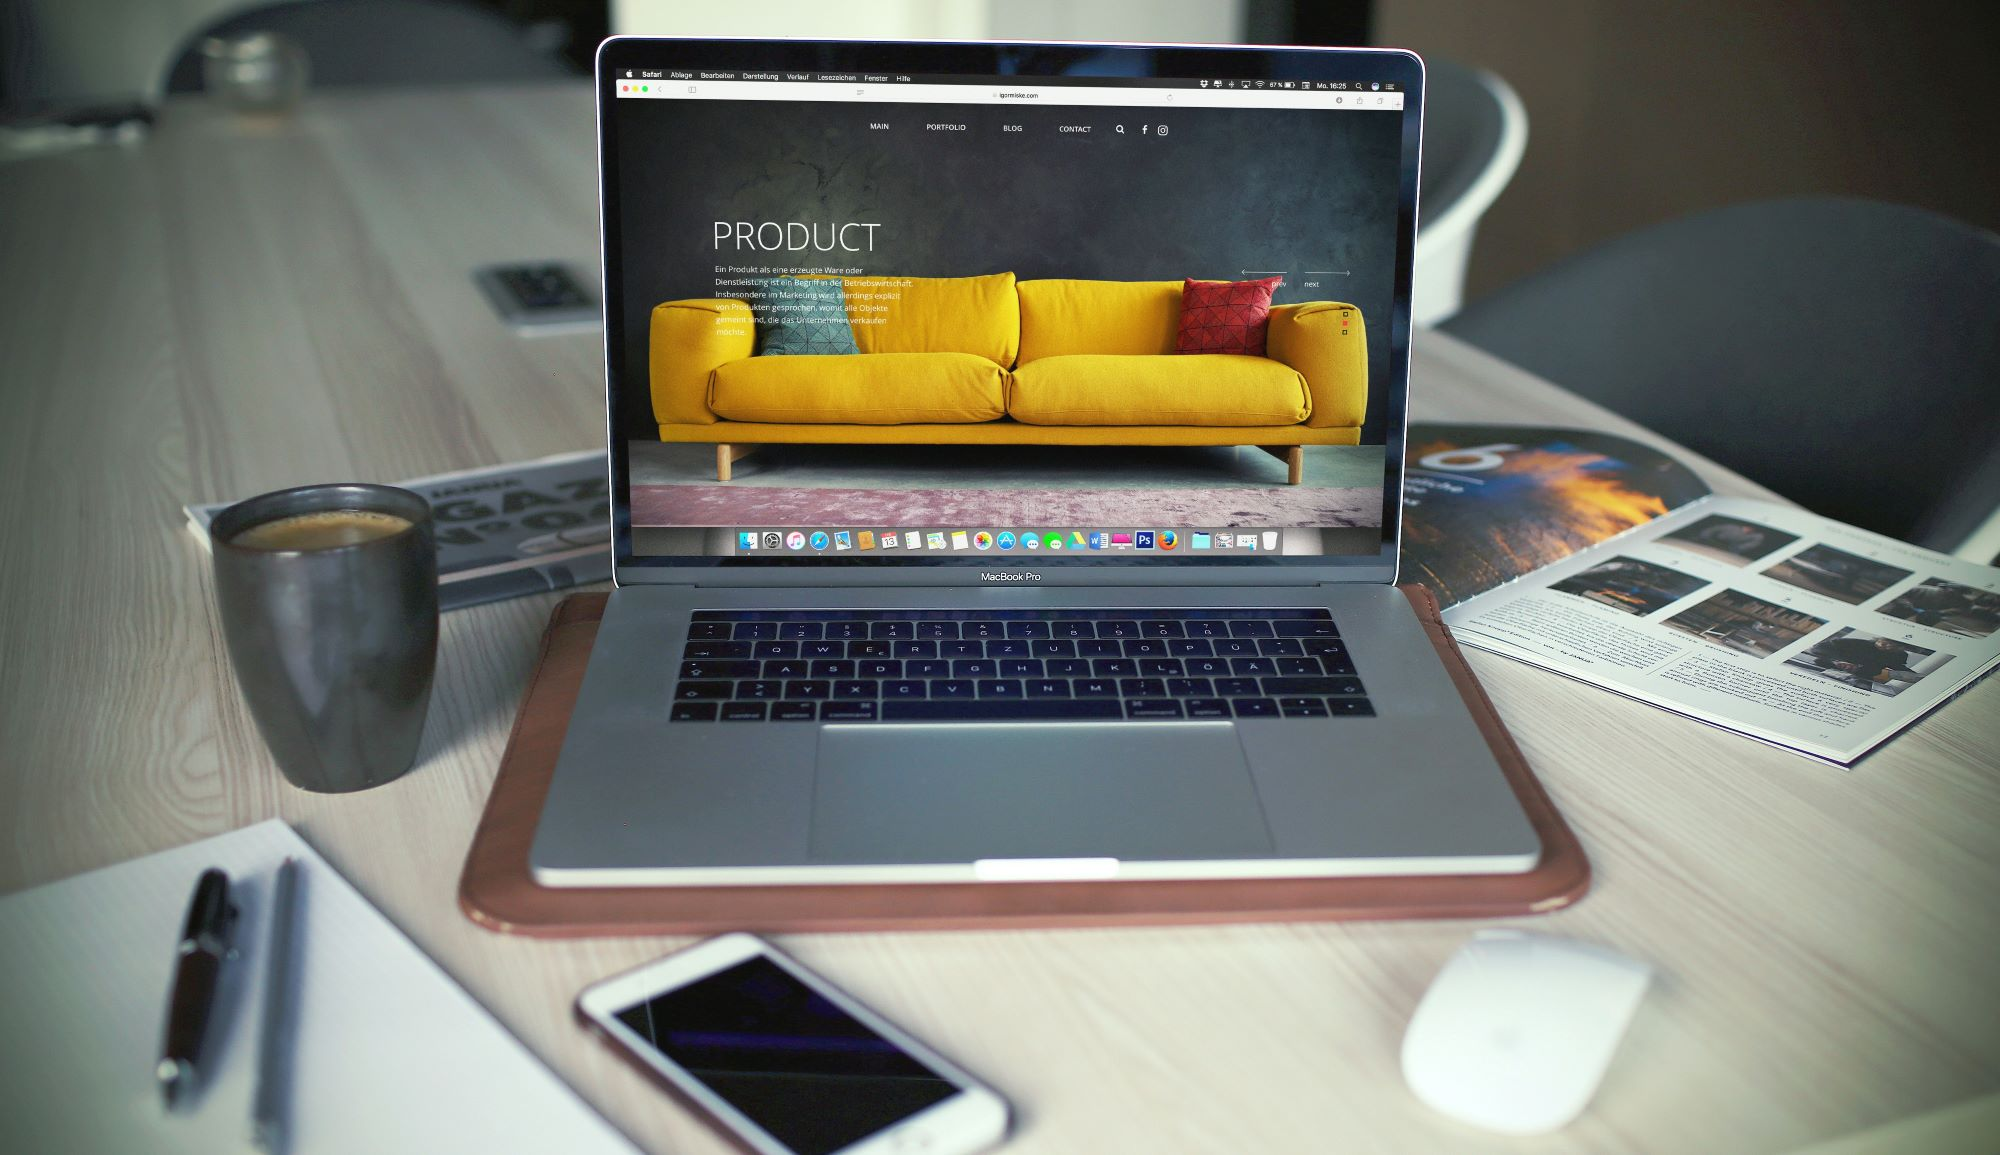
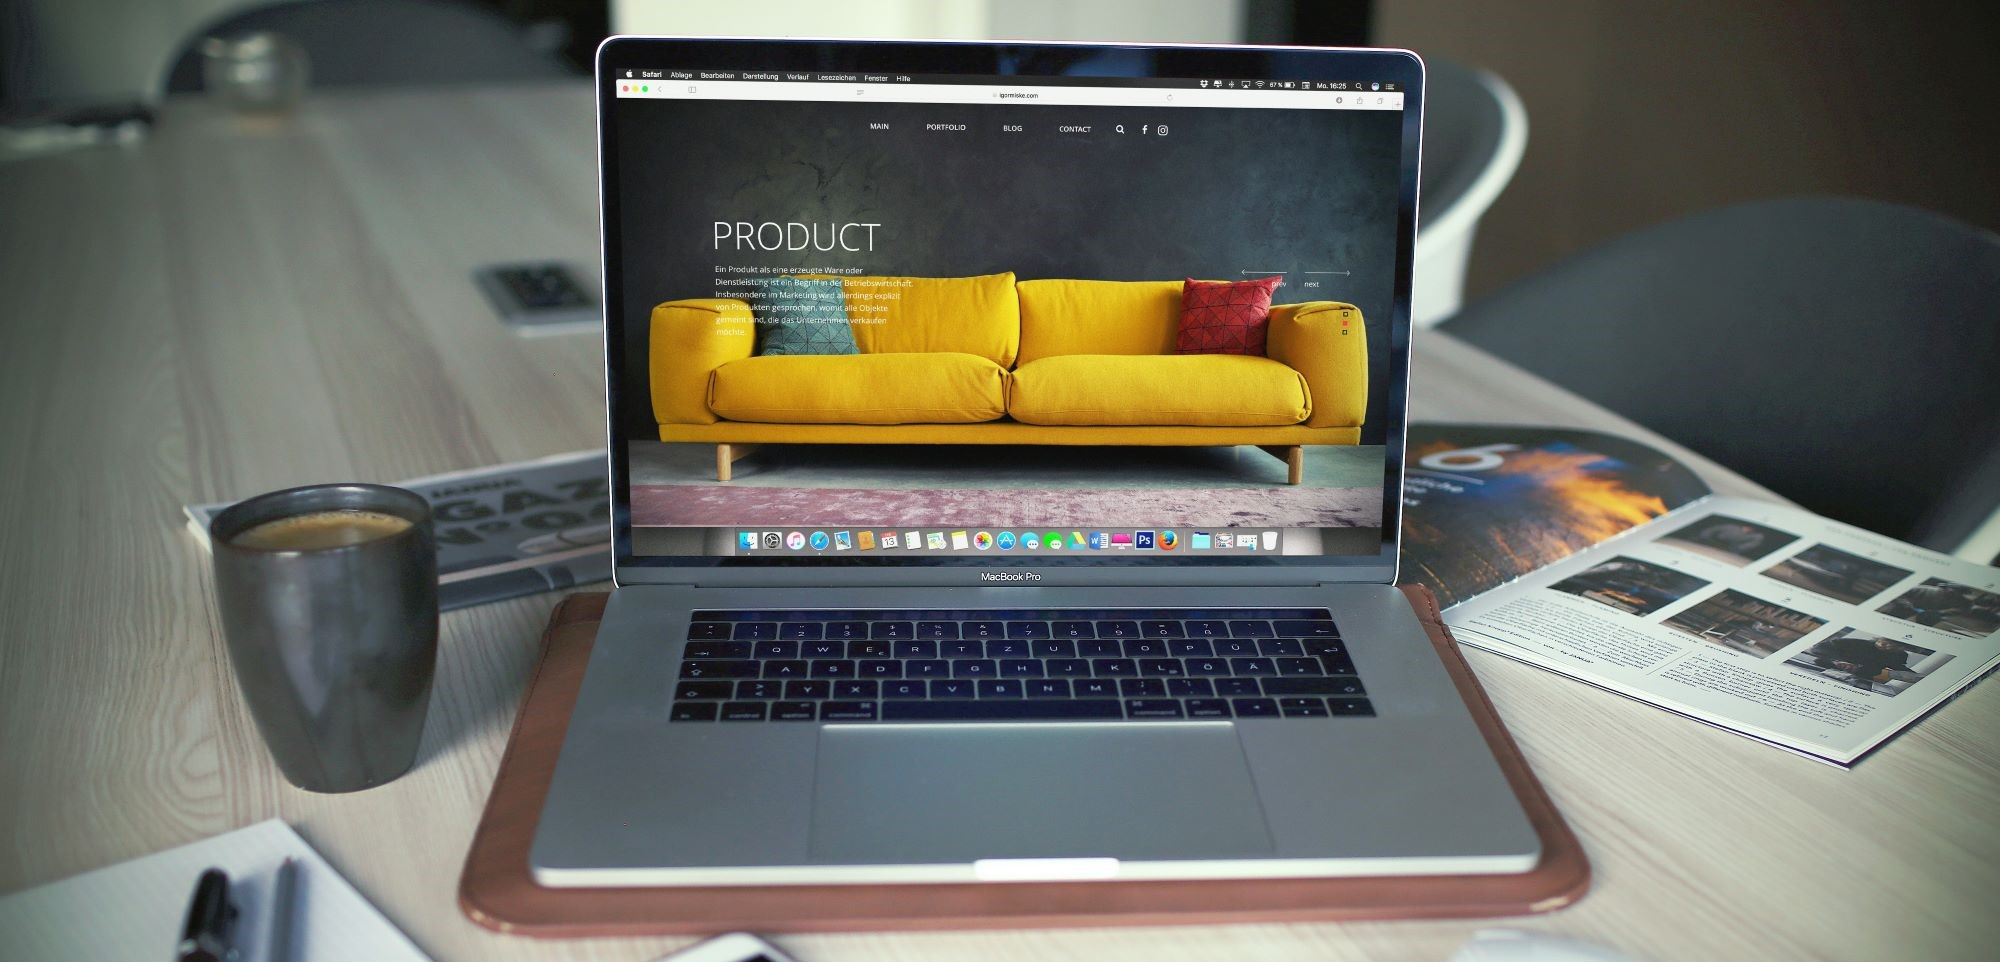
simplify css

diff --git a/css/styles.css b/css/styles.css
@@ -11,12 +11,10 @@ body {
 	font-family: Helvetica,Arial,sans-serif;
 }
 
-.headertext {
-	padding: 3px;
-	background-color: var(--maincolor);
-}
 .logoimage {
 	height: 20px;
+	margin-top: 10px;
+	margin-bottom: 10px;
 }
 .navbar {
 	background-color: #FFFFFF;
@@ -35,55 +33,36 @@ border-radius: 15px 0px 15px 0px;
 /* Links */
 a {
 	color: var(--maincolor);
-	word-wrap: break-word;
-	transition: color 0.1s ease-in, background 0.1s ease-in;
 }
 a:hover, a:focus {
-	color: #c0392b;
-	text-decoration: none;
-	outline: 0;
+	color: var(--secondcolor);
 }
-a:before, a:after {
-	transition: color 0.1s ease-in, background 0.1s ease-in;
-} 
 /* ==========================================================================
    Wrap Sections
    ========================================================================== */
 
 #headerwrap {
 	background: url(../images/info3.jpg) no-repeat center top;
-	margin-top: -50px;
-	padding-top: 120px;
+	padding-top: 60px;
 	text-align: center;
-	background-attachment: relative;
 	background-position: center center;
-	min-height: 850px;
+	min-height: 700px;
 	width: 100%;
-	background-size: 100%;
 	background-size: cover;
-	padding-bottom: 100px;
 }
 #headerwrap h1 {
-	color: #ffffff;
+	margin-top: 200px;
 	font-size: 50px;
 	font-weight: 400;
-	text-align: center;
-	letter-spacing: 3px;
 }
 #headerwrap p {
-	color: #fff;
 	font-size: 22px;
 	font-weight: 300;
-	text-align: center;
-	letter-spacing: 1px;
 }
-#headerwrap .icon {
-	color: var(--maincolor);
-	margin-top: 115px;
-	padding-bottom: 30px;
-	letter-spacing: 8px;
-	font-size: 100px;
-	font-weight: bold;
+#headerwrap span {
+	padding: 3px;
+	color: #ffffff;
+	background-color: var(--maincolor);
 }
 #headerwrap .btn {
 	font-weight: 500;
@@ -92,7 +71,6 @@ a:before, a:after {
 	background-color: var(--maincolor);
 	color: #fff;
 	border-radius: 5px;
-	color: #000;
 }
 #headerwrap .btn:hover, #headerwrap .btn:focus {
 	background-color:#fff;
@@ -197,29 +175,5 @@ ul.social-buttons li a:hover, ul.social-buttons li a:focus, ul.social-buttons li
 
 @media only screen and (min-device-width:768px) and (max-device-width : 1024px) and (orientation : portrait) {}
 
-@media screen and (max-width:769px) {
-	
-	.navbar .nav{
-		margin-top: 10px;
-	}
-#headerwrap h1 {
-	font-size: 80px;
-}
-#headerwrap p {
-	font-size: 30px;
-	line-height: 38px;
-}
-}
-@media screen and (max-width:480px) {
-	
-	.navbar .nav{
-		margin-top: 10px;
-	}
-#headerwrap h1 {
-font-size: 34px;
-}
-#headerwrap p {
-margin-top:30px;
-font-size: 20px;
-}
-}
+@media screen and (max-width:769px) {}
+@media screen and (max-width:480px) {}

diff --git a/index.html b/index.html
@@ -54,7 +54,6 @@
     <div class="container">
       <div class="row">
         <div class="text-center">
-          <i class="fa fa-heart-o icon"></i>
           <h1><span class="headertext">We Offer 100% Safe Website</span></h1>
           <p><span class="headertext">Cheapest Company Website Builder For Singapore Business Owner</span></p>
           <a href="https://api.whatsapp.com/send?phone=6596427196&text=Hello" class="btn btn-info"> Whatsapp (+65) 96427196 </a>
